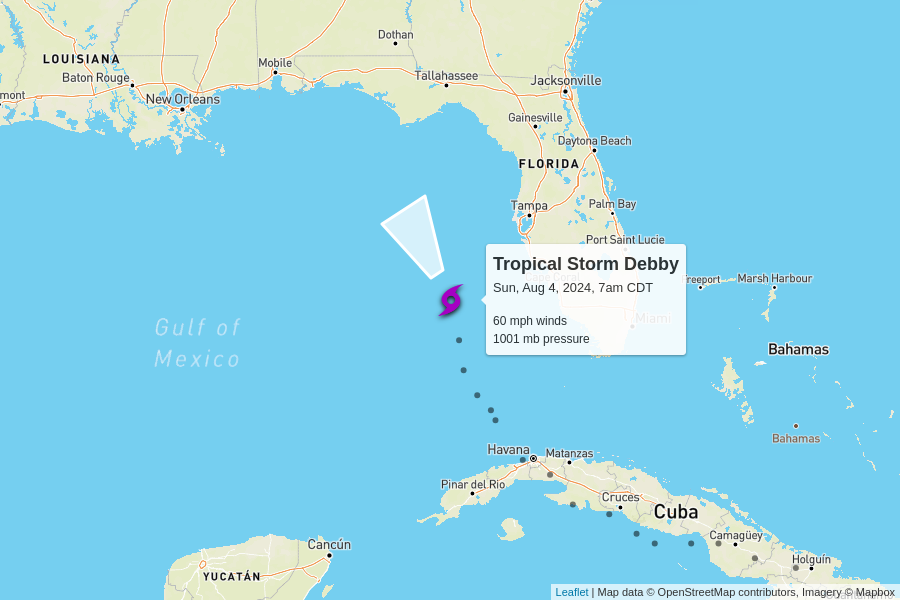
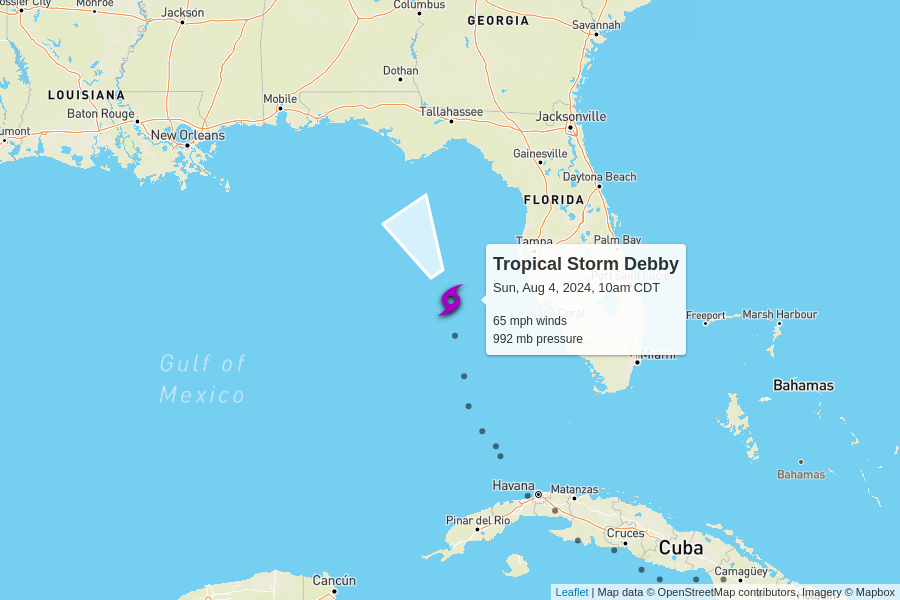
automatic update

diff --git a/docs/index.html b/docs/index.html
@@ -102,7 +102,7 @@
         <td colspan="6" class="storm category-0" >
           <h2>
             Tropical Storm Debby
-            <p class="updated">last updated <span data-time>2024-08-04T12:00:00.000Z</span></p>
+            <p class="updated">last updated <span data-time>2024-08-04T15:00:00.000Z</span></p>
           </h2>
         </td>
       </tr>
@@ -117,8 +117,8 @@
       </tr>
       <tr>
         <td class="spacer"></td>
-        <td>60 mph<br>+10 mph since last update</td>
-        <td>1001 mb<br>0 mb since last update</td>
+        <td>65 mph<br>+5 mph since last update</td>
+        <td>992 mb<br>-9 mb since last update</td>
         <td>
           13 mph to the north-northwest
           <br/>
